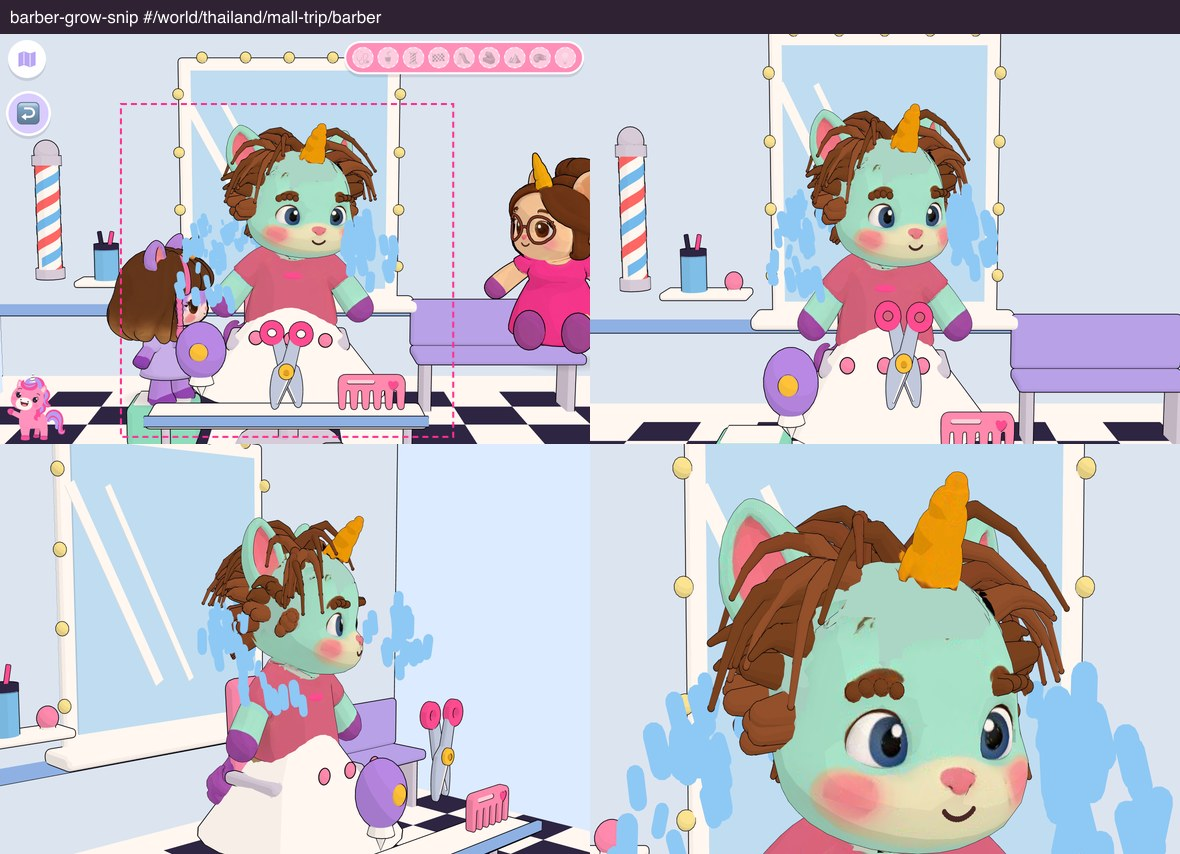
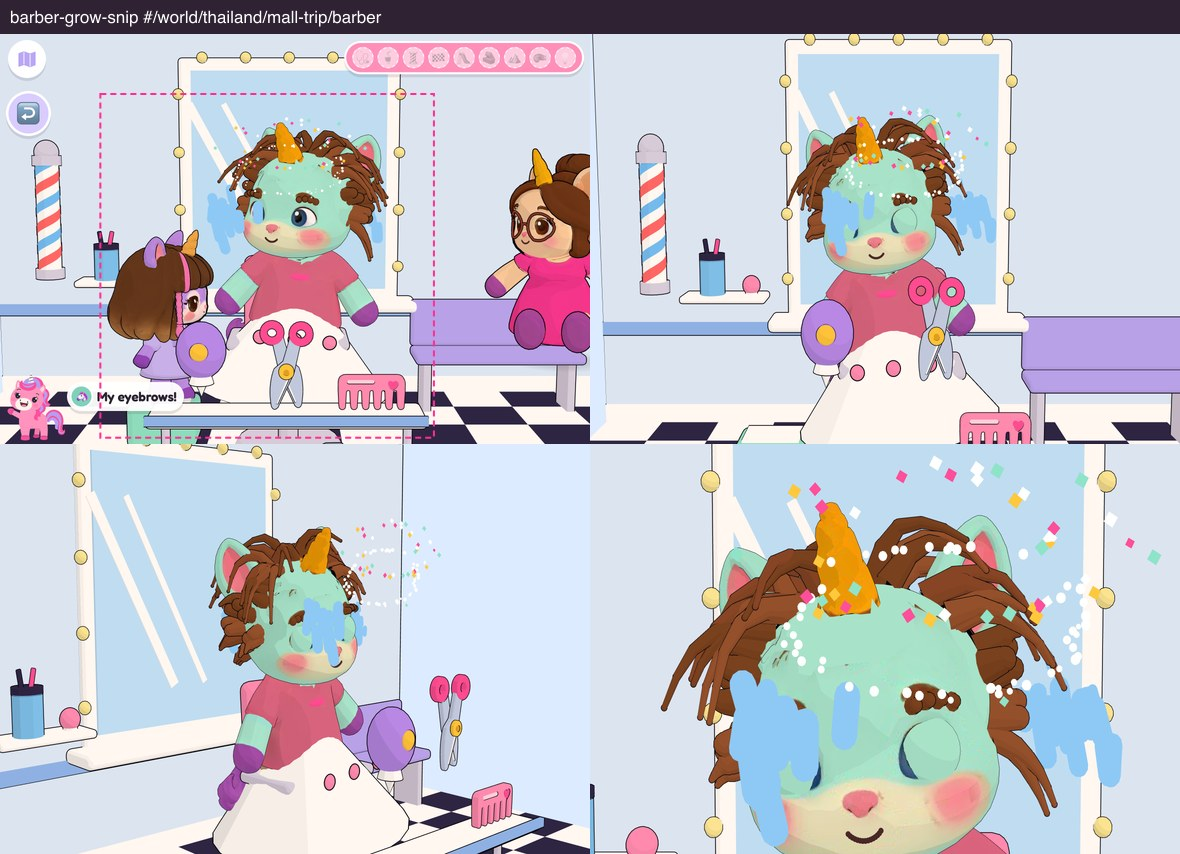
Review page for neb636/dad-everywhere

diff --git a/neb636--dad-everywhere/index.html b/neb636--dad-everywhere/index.html
@@ -45,7 +45,9 @@ button:focus-visible,.pill:focus-visible{outline:3px solid var(--ink);outline-of
 <figure class="pair"><div><img src="pics/barber-old.jpg" alt="Before: The barber" loading="lazy"><span>Before</span></div><div><img src="pics/barber-new.jpg" alt="After: The barber" loading="lazy"><span>After</span></div>
 <figcaption><b>The barber</b>: After a grow and a snip: the strands on a smooth bald scalp, no black lines, nothing see-through</figcaption></figure>
 <figure class="pair"><div><img src="pics/scalp-old.jpg" alt="Before: His bald head (hair hidden)" loading="lazy"><span>Before</span></div><div><img src="pics/scalp-new.jpg" alt="After: His bald head (hair hidden)" loading="lazy"><span>After</span></div>
-<figcaption><b>His bald head (hair hidden)</b>: The lumpy scalp with holes is now a smooth dome, closed under the horn</figcaption></figure>
+<figcaption><b>His bald head (hair hidden)</b>: A smooth dome, closed under the horn, in his face's own mint</figcaption></figure>
+<figure class="pair"><div><img src="pics/neck-old.jpg" alt="Before: His neck, head turned" loading="lazy"><span>Before</span></div><div><img src="pics/neck-new.jpg" alt="After: His neck, head turned" loading="lazy"><span>After</span></div>
+<figcaption><b>His neck, head turned</b>: The pale patch under his chin is mint now</figcaption></figure>
 <figure class="pair"><div><img src="pics/cave-old.jpg" alt="Before: The canoe" loading="lazy"><span>Before</span></div><div><img src="pics/cave-new.jpg" alt="After: The canoe" loading="lazy"><span>After</span></div>
 <figcaption><b>The canoe</b>: He reaches forward with the paddle in his hooves</figcaption></figure>
 <figure class="pair"><div><img src="pics/plane-old.jpg" alt="Before: The plane" loading="lazy"><span>Before</span></div><div><img src="pics/plane-new.jpg" alt="After: The plane" loading="lazy"><span>After</span></div>
